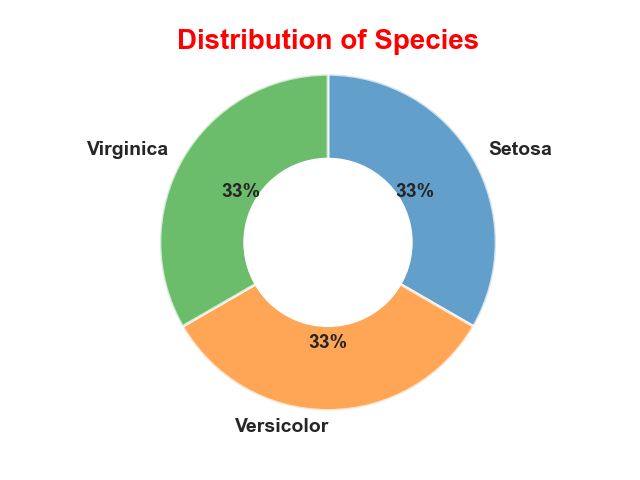
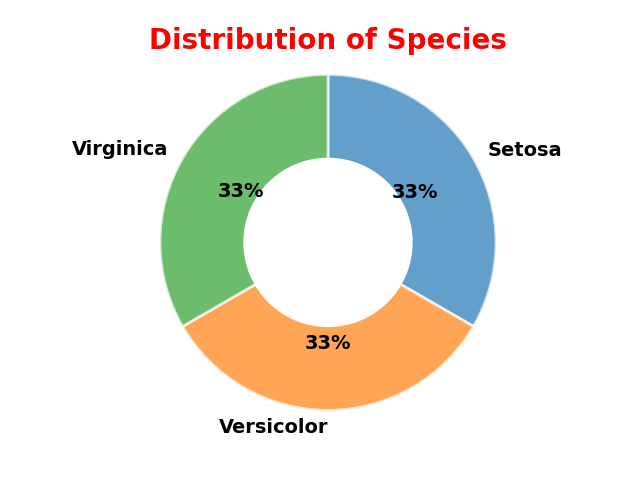
plot 2

diff --git a/irisanalysis.py b/irisanalysis.py
@@ -5,7 +5,6 @@ import numpy as np
 import matplotlib.pyplot as plt
 import pylab as pl
 import seaborn as sns
-sns.set_style("whitegrid")
 from scipy.stats import norm
 
 # import data from a csv file using pandas 
@@ -19,7 +18,6 @@ df.columns = columns
 df["Species"].replace(to_replace="Iris-setosa", value="Setosa", inplace=True)
 df["Species"].replace(to_replace="Iris-versicolor", value="Versicolor", inplace=True)
 df["Species"].replace(to_replace="Iris-virginica", value="Virginica", inplace=True)
-print(df)
 
 # create the tile and write on them 
 with open ('iris_analysis.txt', 'w') as f:
@@ -57,13 +55,13 @@ with open ('iris_analysis.txt', 'w') as f:
     # get quartile per species 
     f.write("==== Quartiles per species ==== \n \n")
     f.write(str(df.groupby('Species').quantile([0.25, 0.50, 0.75]))+'\n\n')
-'''    
-# get a first donuts pie  showing the donuts of the distribution - source [1], [2], [3]
-# define the value of the pie 
+
+# create a pie chart to show the distribution of species - source [1], [2], [3]
+# get the count of each species
 group_count= df['Species'].value_counts()
-# define the labels of the pie
+# define the labels of the pie chart
 labels= df['Species'].unique()
-# get the pie 
+# set the parameters of the pie chart
 plt.pie(group_count, labels=labels, radius=1.3, autopct='%1.0f%%', startangle=90, counterclock=False,
         textprops={'fontsize': 14, 'fontweight': 'bold'},
         wedgeprops={'linewidth': 2, 'edgecolor': 'white', 'alpha':0.7})
@@ -74,39 +72,24 @@ fig.gca().add_artist(centre_circle)
 plt.axis('equal')
 plt.title('Distribution of Species', color='Red', fontweight='bold', fontsize=20)
 plt.savefig("Plot1_PieOfDistribution.png")
-plt.show()'''
 
-# create an histangram showing the averages of each categories per species 
+# Create a bar plot with the average of each categories per species [4]
 
-#x_hist= df.data
-#y_hist= df.target
+# Compute the average of each feature for each class
+class_averages = df.groupby('Species').mean()
 
-#print(x_hist)
+# select a seaborn style 
+sns.set_style("dark")
 
-X_iris = np.arange(len(columns)-1)
-average = df.groupby('Species')[X_iris].agg(['mean'])
-print(X_iris)
-print(average)
-
-data=df.values
-X = data[:,0:4]
-#print(X)
-Y = data[:,4]
-#print(Y)
-Y_Data = np.array([np.average(X[:, i][Y==j].astype('float32')) for i in range (X.shape[1])
- for j in (np.unique(Y))])
-#print(Y_Data)
-Y_Data = np.array([np.average(X[:, i][Y==j].astype('float32')) for i in range (X.shape[1])
- for j in (np.unique(Y))])
-Y_Data_reshaped = Y_Data.reshape(4, 3)
-Y_Data_reshaped = np.swapaxes(Y_Data_reshaped, 0, 1)
-X_axis = np.arange(len(columns)-1)
-width = 0.25
-print(X_axis)
-print(Y_Data_reshaped)
-
-
-
+# Create the bar chart
+class_averages.plot(kind='bar', alpha=0.7)
+plt. title('Iris Feature Averages by Species', fontweight = 'bold', fontsize = 20)
+plt. xlabel('Species', fontweight = 'bold', fontsize = 14)
+plt. ylabel('Average', fontweight = 'bold', fontsize = 14)
+# rotate the x values [5]
+plt.xticks(rotation=0)
+plt.savefig('Plot1_AverageBar')
+plt.show()
 
 #plt.bar(df.feature_names, average)
 #plt.title("Bar Chart Setosa Averages")
